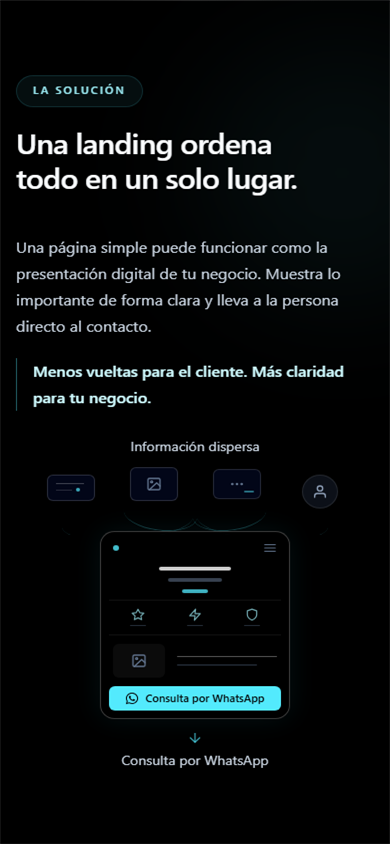
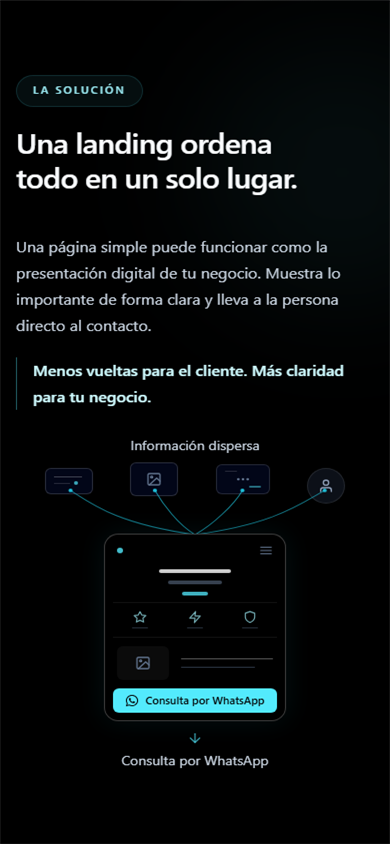
new design solutions

diff --git a/src/components/sections/SolutionSection.jsx b/src/components/sections/SolutionSection.jsx
@@ -41,16 +41,16 @@ function SolutionSection() {
           </div>
 
           <div
-            className="mx-auto mt-7 w-full max-w-[340px] md:hidden"
+            className="mx-auto mt-7 w-[86%] max-w-[340px] md:hidden"
             data-solution-mobile-flow
           >
             <p className="text-center text-sm text-slate-300">
               {solution.flow.inputs[0]}
             </p>
 
-            <div className="relative mt-3 h-[322px] w-full">
-              <div className="grid h-10 w-full grid-cols-4 items-start gap-4 px-3" aria-hidden="true">
-                <div className="flex h-7 w-12 translate-y-2 justify-self-center flex-col justify-center gap-1 rounded-md border border-white/[0.16] bg-slate-950 px-2">
+            <div className="relative mt-2 h-[328px] w-full">
+              <div className="grid h-10 w-full grid-cols-[48px_48px_54px_38px] items-start justify-between px-1" aria-hidden="true">
+                <div className="flex h-7 w-12 translate-y-1.5 flex-col justify-center gap-1 rounded-md border border-white/[0.16] bg-slate-950 px-2">
                   <span className="h-px w-7 bg-white/25" />
                   <span className="flex items-center gap-1">
                     <span className="h-px w-4 bg-white/15" />
@@ -58,28 +58,39 @@ function SolutionSection() {
                   </span>
                 </div>
 
-                <div className="flex h-9 w-12 justify-self-center items-center justify-center rounded-md border border-white/[0.16] bg-slate-950 text-slate-500">
+                <div className="flex h-9 w-12 items-center justify-center rounded-md border border-white/[0.16] bg-slate-950 text-slate-500">
                   <FiImage className="h-4 w-4" />
                 </div>
 
-                <div className="relative flex h-8 w-12 translate-y-0.5 justify-self-center items-center justify-center rounded-md border border-white/[0.14] bg-slate-950 text-slate-500">
+                <div className="relative flex h-8 w-[54px] translate-y-0.5 items-center justify-center rounded-md border border-white/[0.14] bg-slate-950 px-2 text-slate-500">
                   <FiMoreHorizontal className="h-4 w-4" />
-                  <span className="absolute bottom-1.5 right-1.5 h-0.5 w-2.5 rounded-full bg-cyan-300/45" />
+                  <span className="absolute left-2 top-1.5 h-px w-3 rounded-full bg-white/15" />
+                  <span className="absolute bottom-1.5 right-2 h-0.5 w-3 rounded-full bg-cyan-300/45" />
                 </div>
 
-                <div className="flex h-9 w-9 translate-y-2 justify-self-center items-center justify-center rounded-full border border-white/[0.1] bg-slate-800/40 text-slate-400">
+                <div className="flex h-[38px] w-[38px] translate-y-1.5 items-center justify-center rounded-full border border-white/[0.1] bg-slate-800/40 text-slate-400">
                   <FiUser className="h-4 w-4" />
                 </div>
               </div>
 
-              <div className="absolute left-1/2 top-7 h-11 w-[270px] -translate-x-1/2 overflow-hidden" aria-hidden="true">
-                <span className="absolute bottom-0 right-1/2 h-10 w-[132px] origin-bottom-right -rotate-[5deg] rounded-[50%] border-b border-cyan-300/20" />
-                <span className="absolute bottom-0 left-1/2 h-10 w-[132px] origin-bottom-left rotate-[5deg] rounded-[50%] border-b border-cyan-300/20" />
-                <span className="absolute bottom-0 right-1/2 h-9 w-[74px] origin-bottom-right rotate-[7deg] rounded-[50%] border-b border-cyan-300/25" />
-                <span className="absolute bottom-0 left-1/2 h-9 w-[74px] origin-bottom-left -rotate-[7deg] rounded-[50%] border-b border-cyan-300/25" />
-              </div>
+              <svg
+                className="absolute left-1/2 top-7 h-[50px] w-full -translate-x-1/2 overflow-visible"
+                viewBox="0 0 292 52"
+                fill="none"
+                preserveAspectRatio="none"
+                aria-hidden="true"
+              >
+                <path d="M28 2 C48 17 72 39 146 51" stroke="rgb(34 211 238)" strokeOpacity="0.58" strokeWidth="1" strokeLinecap="round" />
+                <path d="M108 2 C116 18 130 40 146 51" stroke="rgb(34 211 238)" strokeOpacity="0.62" strokeWidth="1" strokeLinecap="round" />
+                <path d="M191 2 C183 18 163 40 146 51" stroke="rgb(34 211 238)" strokeOpacity="0.62" strokeWidth="1" strokeLinecap="round" />
+                <path d="M269 2 C246 17 222 39 146 51" stroke="rgb(34 211 238)" strokeOpacity="0.58" strokeWidth="1" strokeLinecap="round" />
+                <circle cx="28" cy="2" r="2" fill="rgb(34 211 238)" fillOpacity="0.85" />
+                <circle cx="108" cy="2" r="2" fill="rgb(34 211 238)" fillOpacity="0.85" />
+                <circle cx="191" cy="2" r="2" fill="rgb(34 211 238)" fillOpacity="0.85" />
+                <circle cx="269" cy="2" r="2" fill="rgb(34 211 238)" fillOpacity="0.85" />
+              </svg>
 
-              <div className="absolute left-1/2 top-[68px] grid h-[200px] w-[190px] -translate-x-1/2 grid-rows-[22px_42px_38px_54px_1fr] rounded-[0.9rem] border border-white/[0.24] bg-black/90 p-2 shadow-[0_0_28px_rgba(34,211,238,0.08)]">
+              <div className="absolute left-1/2 top-[76px] grid h-[200px] w-[182px] -translate-x-1/2 grid-rows-[22px_42px_38px_54px_1fr] rounded-[0.9rem] border border-white/[0.24] bg-black/90 p-2 shadow-[0_0_28px_rgba(34,211,238,0.08)]">
                 <div className="flex items-start justify-between px-1 pt-0.5 text-slate-500">
                   <span className="mt-1 h-1.5 w-1.5 rounded-full bg-cyan-300/80" />
                   <FiMenu className="h-3.5 w-3.5" />
@@ -120,7 +131,7 @@ function SolutionSection() {
                 </div>
               </div>
 
-              <div className="absolute inset-x-0 top-[280px] flex flex-col items-center gap-1.5 text-center">
+              <div className="absolute inset-x-0 top-[286px] flex flex-col items-center gap-1.5 text-center">
                 <FiArrowDown className="h-4 w-4 text-cyan-300/65" aria-hidden="true" />
                 <p className="text-sm leading-5 text-slate-300">{solution.flow.result}</p>
               </div>
